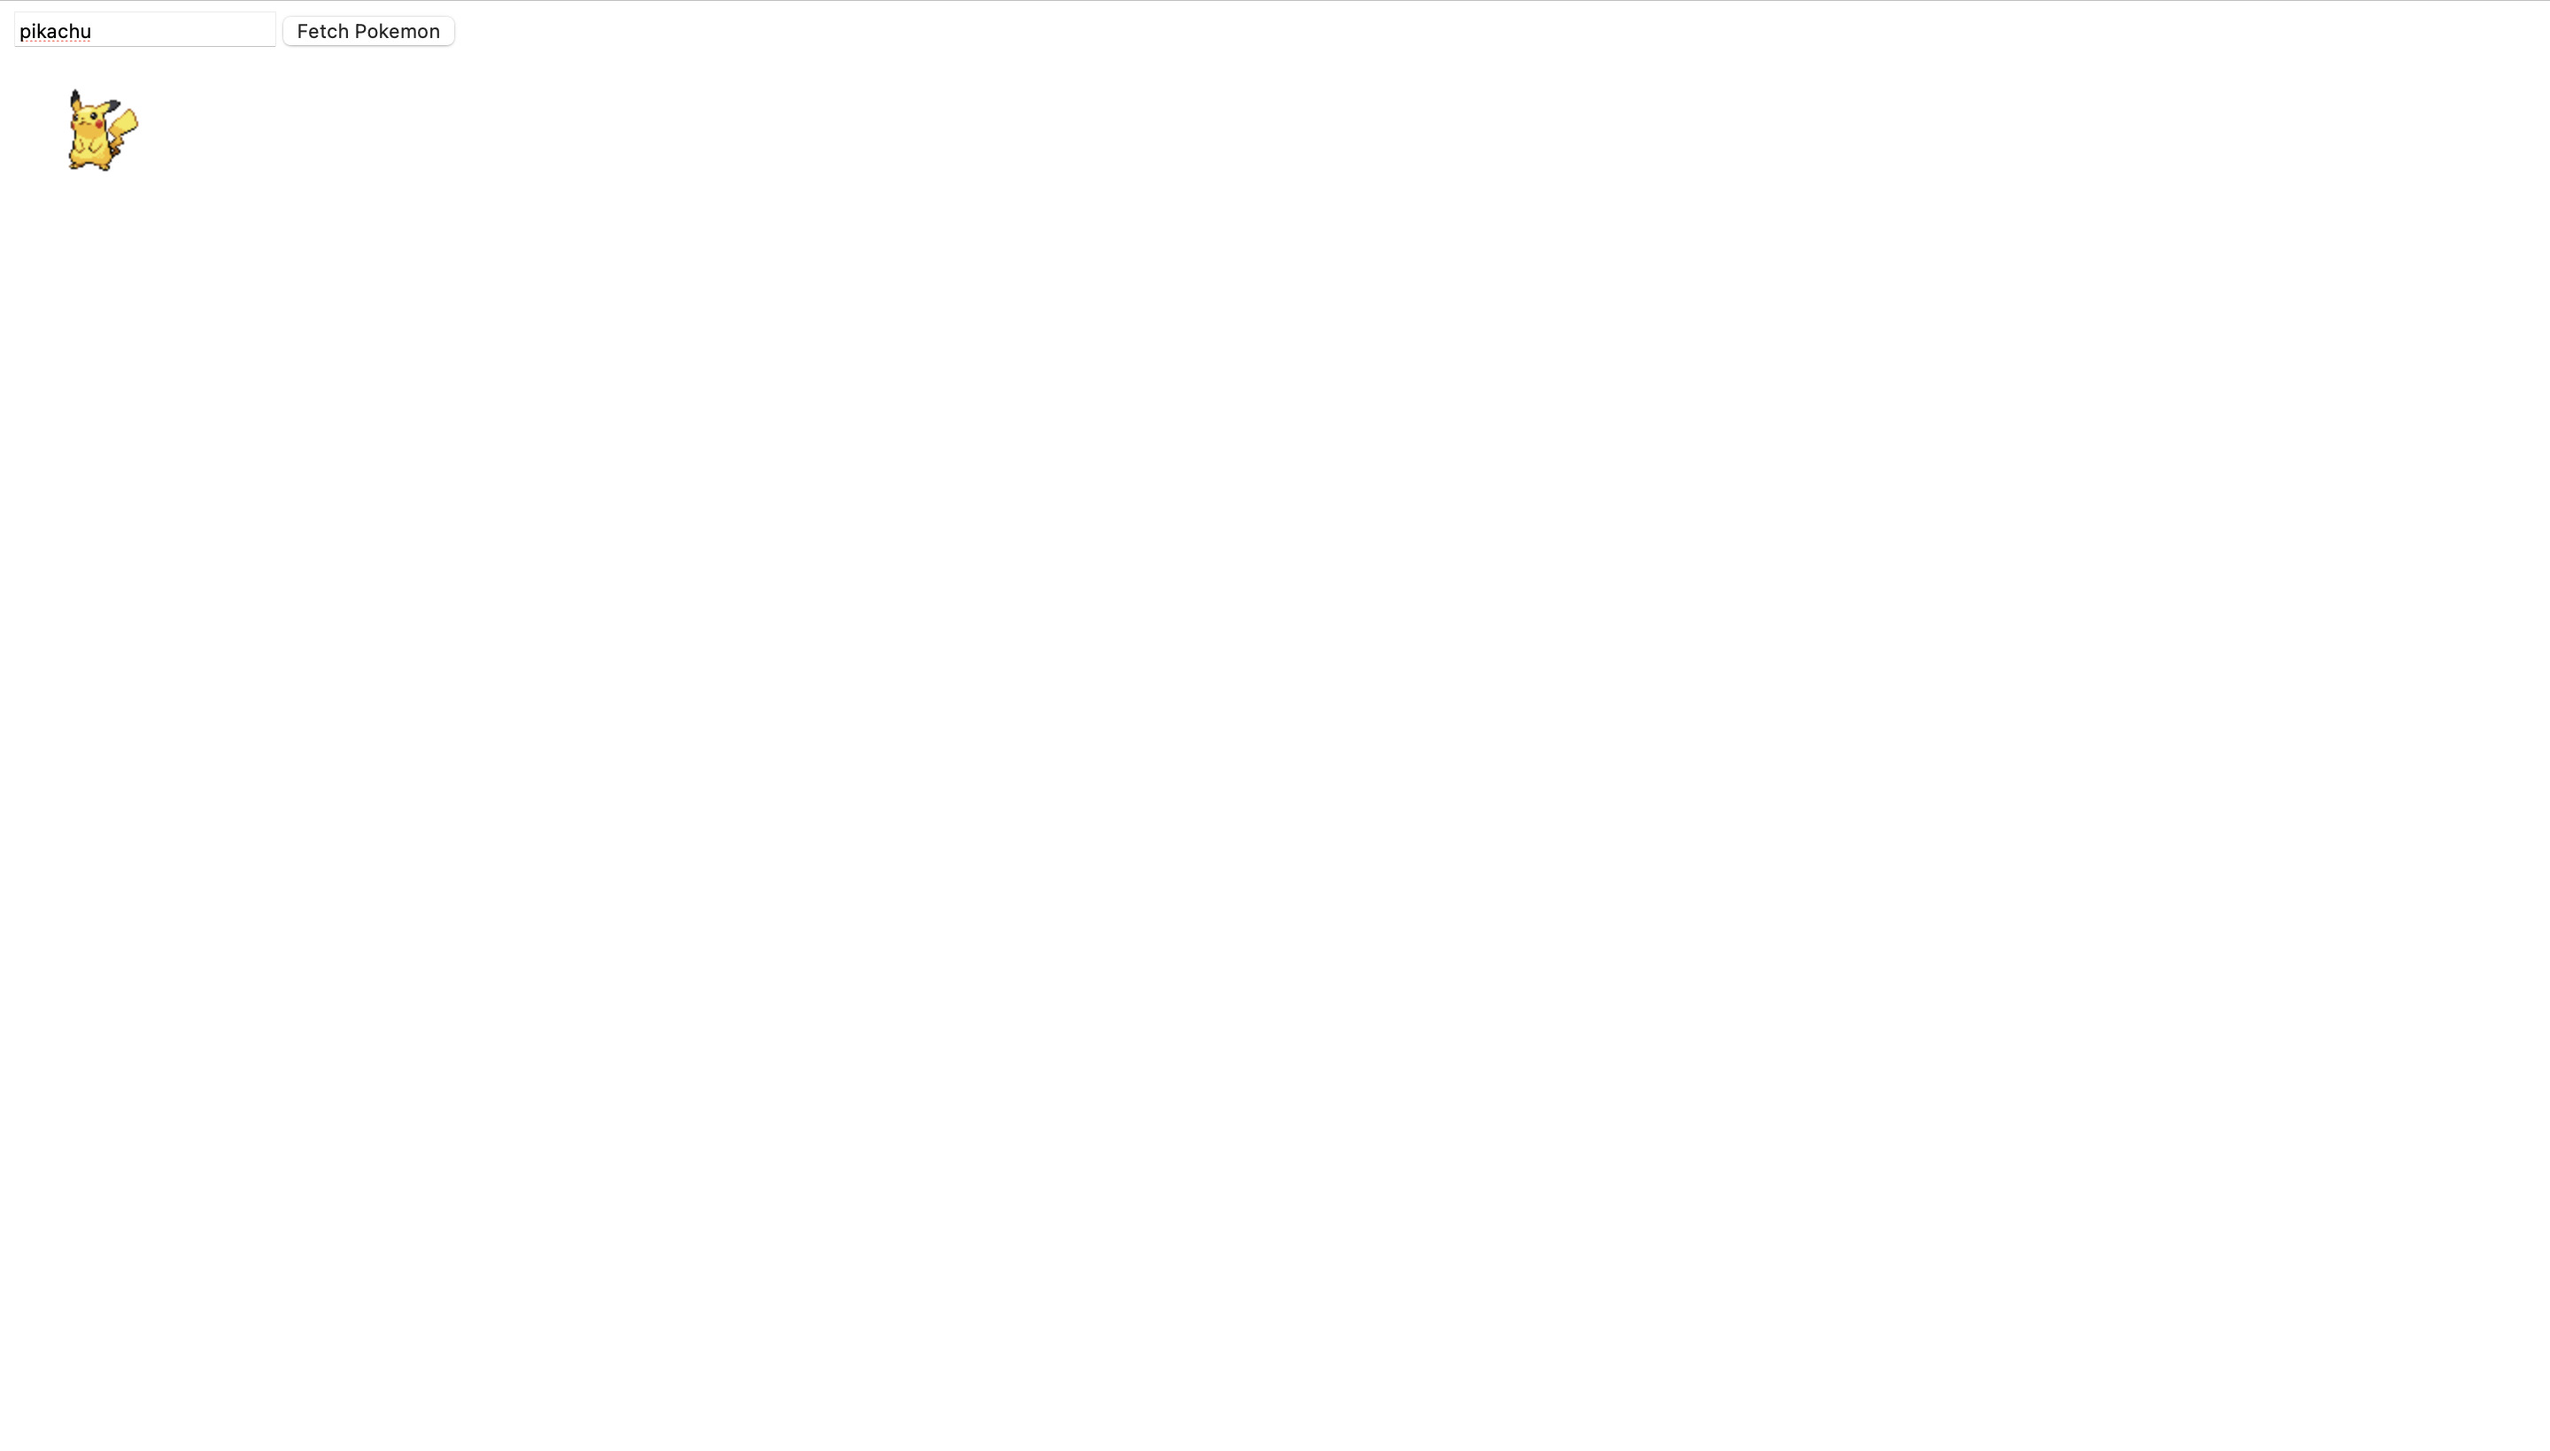
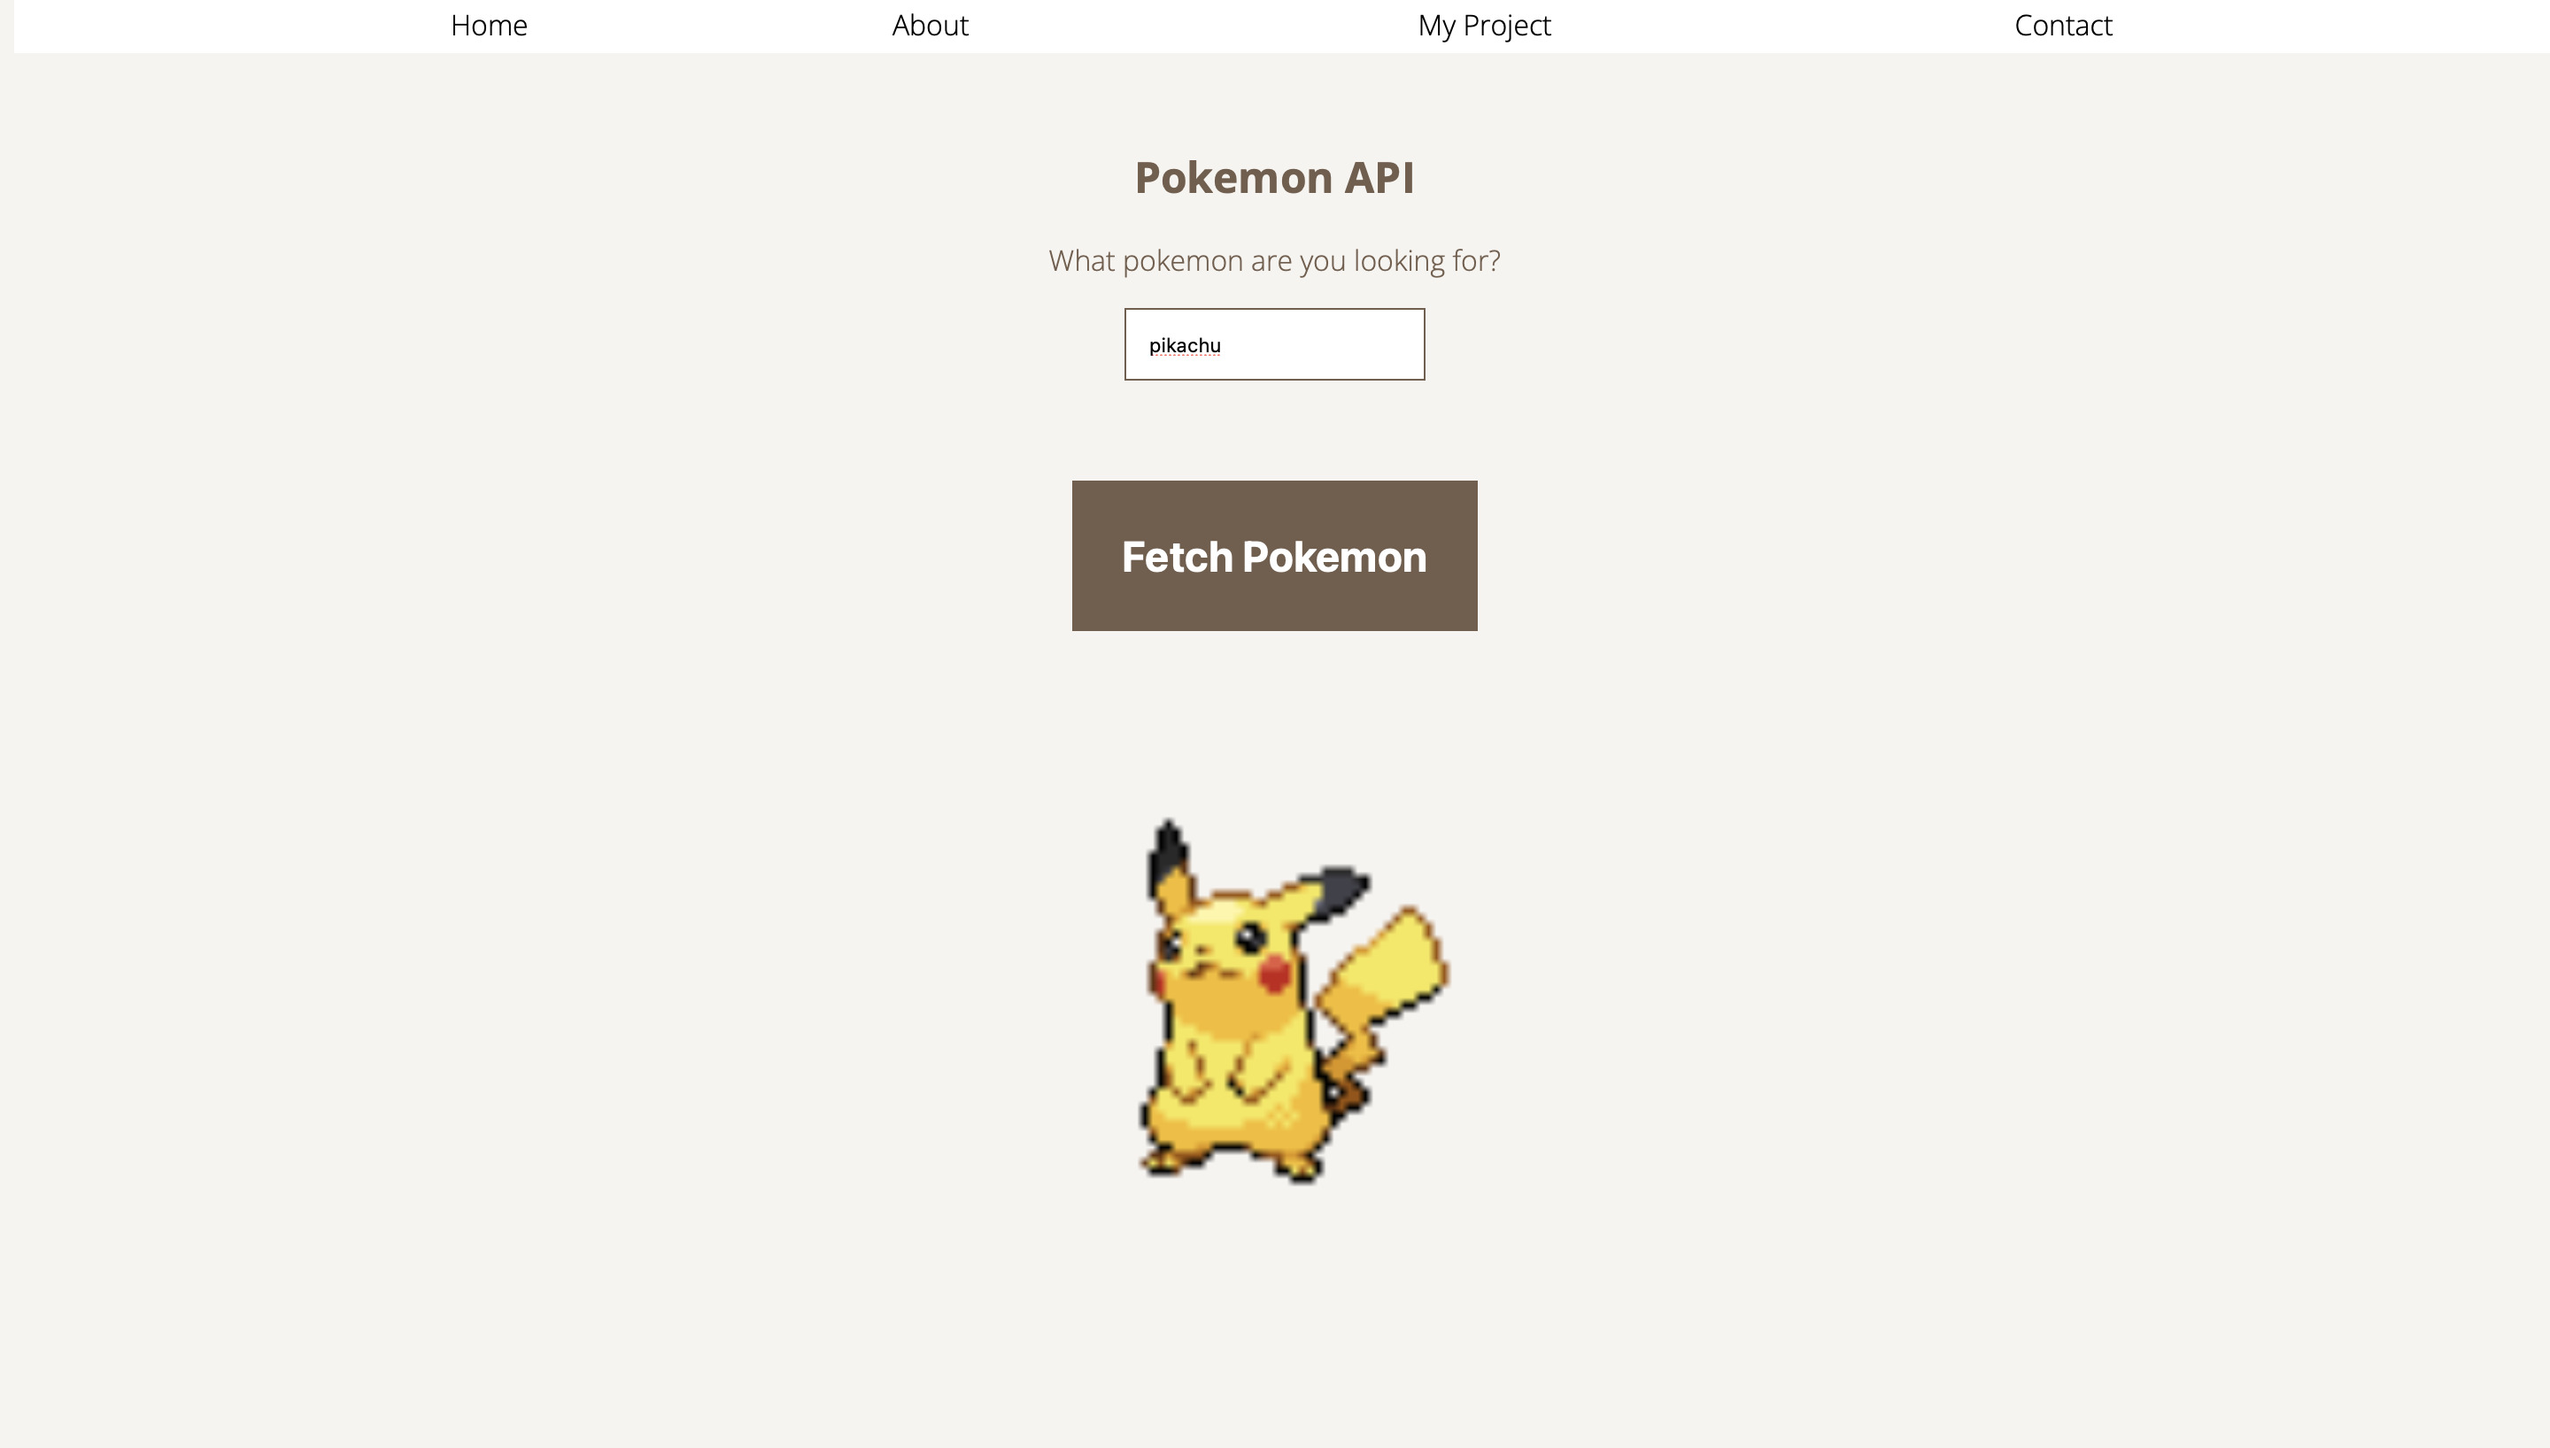
update
modified:   about.css
modified:   about.html
new file:   api.css
modified:   api.html
modified:   images/Pokemon_API.jpg
modified:   index.css
modified:   index.html
modified:   router.js

diff --git a/api.html b/api.html
@@ -3,13 +3,37 @@
 <head>
     <meta charset="UTF-8">
     <meta name="viewport" content="width=device-width, initial-scale=1.0">
-    <title>API</title>
+    <title>Pokemon API</title>
+    <link rel="preconnect" href="https://fonts.googleapis.com">
+    <link rel="preconnect" href="https://fonts.gstatic.com" crossorigin>
+    <link href="https://fonts.googleapis.com/css2?family=Open+Sans:ital,wght@0,300..800;1,300..800&family=Roboto:wght@400;700&display=swap" rel="stylesheet">
 </head>
 <body>
-    <input type="text" id="pokemonName" placeholder="Enter Pokemon name">
-    <button onclick="fetchData()">Fetch Pokemon</button><br>
+    <header>
+        
+        <nav>
+            <ul>
+            <li><a href="./#page_top">Home</a>
+            <li><a href="./#about">About</a>
+            <li><a href="./#project">My Project</a> 
+            <li><a href="./#contact">Contact</a>
+            </ul>
+        </nav>
+    </header>
+
+    <section id="top">
+        <h1 id="top_content">Pokemon API</h1>
+        <p id="top_content">What pokemon are you looking for?</p>
+        <input type="text" id="pokemonName" placeholder="Enter Pokemon name">
+    </section>
+    <div class="button-container">
+        <button onclick="fetchData()">Fetch Pokemon</button><br>
+    </div>
 
     <img src="" alt="Pokemon Sprite" id="pokemonSprite" style="display: none">
+    
+    <!-- JavaScript and CSS file import -->
     <script src="api.js"></script>
+    <link rel="stylesheet" href="./api.css">
 </body>
 </html>

diff --git a/api.css b/api.css
@@ -1,0 +1,85 @@
+body {
+    font-family: "Open Sans", sans-serif;
+    font-optical-sizing: auto;
+    font-weight: 300;
+    font-style: normal;
+    font-variation-settings:
+        "wdth" 100;;
+}
+
+header{
+    top: 0;
+    position: fixed;
+    width: 100%;
+    background-color: white;
+    z-index: 999;
+}
+nav ul{
+    display: table;
+    margin: 0 auto;
+    padding: 0 ;
+    width: 80%;
+    text-align: center;
+    }
+    nav li{
+    display: table-cell;
+    min-width: 50px;
+    }
+    nav a{
+    display: block;
+    width: 100%;
+    text-decoration: none;
+    color: black;
+    padding-top: 5px;
+    padding-bottom: 5px;
+    }
+    nav li:hover{
+    color: #E7DA66;
+    border-bottom: 3px solid #423E3A;
+    }
+
+body{
+    background-color: #F6F4F1;
+    color: #745E4D;
+}
+
+#top{
+    padding: 4%;
+    text-align: center;
+}
+
+input{
+    border: solid #745E4D;
+    border-width: thin;
+    padding: 1%;
+}
+
+.button-container{
+    display: flex;
+    justify-content: center;
+    position: relative;
+}
+
+button {
+    text-decoration: none;
+    background-color: #745E4D;
+    text-align: center;
+    color: white;
+    font-size: 18pt;
+    cursor: pointer;
+    padding: 2%;
+    font-weight: bold;
+    transition: .3s;
+    border: none;
+}
+
+button:hover{
+    background-color: #9A9796;
+    transform: scale(1.1);
+}
+
+#pokemonSprite{
+    margin-right: auto;
+    margin-left: auto;
+    width: 30%;
+}

diff --git a/index.css b/index.css
@@ -101,9 +101,10 @@ h2 {
 
 .card {
     background-color: white;
-    padding: 4vw;
+    padding: 4%;
     text-align: center;
     color: #745E4D;
+    
 }
 
 .button-container{
@@ -143,13 +144,13 @@ a {
 
 #contact, #send {
     display: flex;
-    justify-content: center;
     align-items: center;
     flex-direction: column;
     position: relative;
     background-color: #F6F4F1;
     color: #745E4D;
     padding: 4%;
+    margin: 0;
 
 }
 
@@ -222,10 +223,7 @@ footer a{
     .cards {
         display: grid;
         grid-template-columns: 1fr;
-        grid-template-rows: auto;
         grid-row-gap: 4%;
-        justify-content: center;
-        margin: 4%;
     }
 
     .contact {
@@ -241,12 +239,10 @@ footer a{
         display: flex;
         justify-content: center;
         position: relative;
-        margin-top: 100px;
     }
     
     h2#contact{
         text-align: center;
-        margin-top: 100px;
         font-size: xx-large;
     }
 

diff --git a/index.html b/index.html
@@ -21,13 +21,14 @@
         </nav>
     </header>
 
+    <a name="page_top"> </a>
     <section id="top">
         <div id="top_left">
-            <a name="page_top"></a><img src="https://github.com/Misato-Seki/Misato-Blog/blob/main/images/top.jpg?raw=true" alt="top_image"></a>
+            <img src="https://github.com/Misato-Seki/Misato-Blog/blob/main/images/top.jpg?raw=true" alt="top_image">
         </div>
         <div id="top_right">
             <h1 class="top_right_content">Misato Seki</h1>
-            <p class="top_right_content">Web Developer</p>
+            <p class="top_right_content">IT Student</p>
         </div>
     </section>
 

diff --git a/about.html b/about.html
@@ -23,9 +23,9 @@
 
     <section id="top">
         <h1 id="top_content">Misato Seki</h1>
-        <p id="top_content">Web Developer</p>
+        <p id="top_content">IT Student</p>
         <section class="button-container" id="contact me">
-            <button onclick="location.href='./#'">Contact me</button>
+            <button onclick="location.href='#contact'">Contact me</button>
         </section>
     </section>
         
@@ -131,6 +131,7 @@
         </div>
     </section>
 
+    <a name="contact"> </a>
     <section id="contact_info">
         <div class="left">
             <h2>CONTACT WITH ME</h2>

diff --git a/router.js b/router.js
@@ -82,6 +82,9 @@ module.exports = {
             case '/api':
                 renderHTML('./api.html', response);
                 break;
+            case '/api.css':
+                renderCSS('./api.css',response);
+                break;
             case '/api.js':
                 renderJS('./api.js', response);
                 break;

diff --git a/about.css b/about.css
@@ -160,3 +160,7 @@ button:hover{
     grid-template-columns: 0.5fr 0.3fr 1fr;
     grid-template-areas: "left middle right";
 }
+
+@media screen and (max-width:480px){
+    
+}
